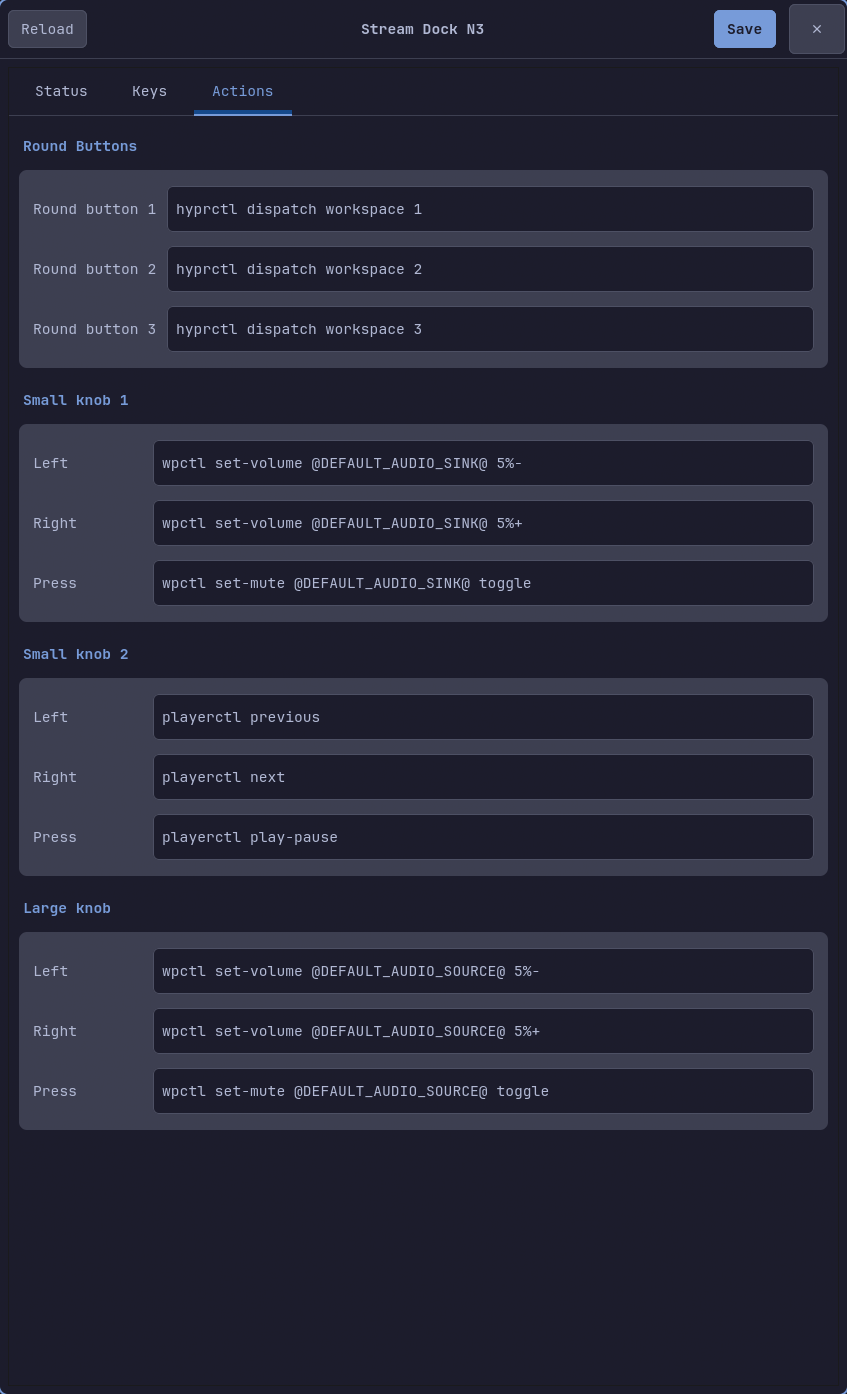
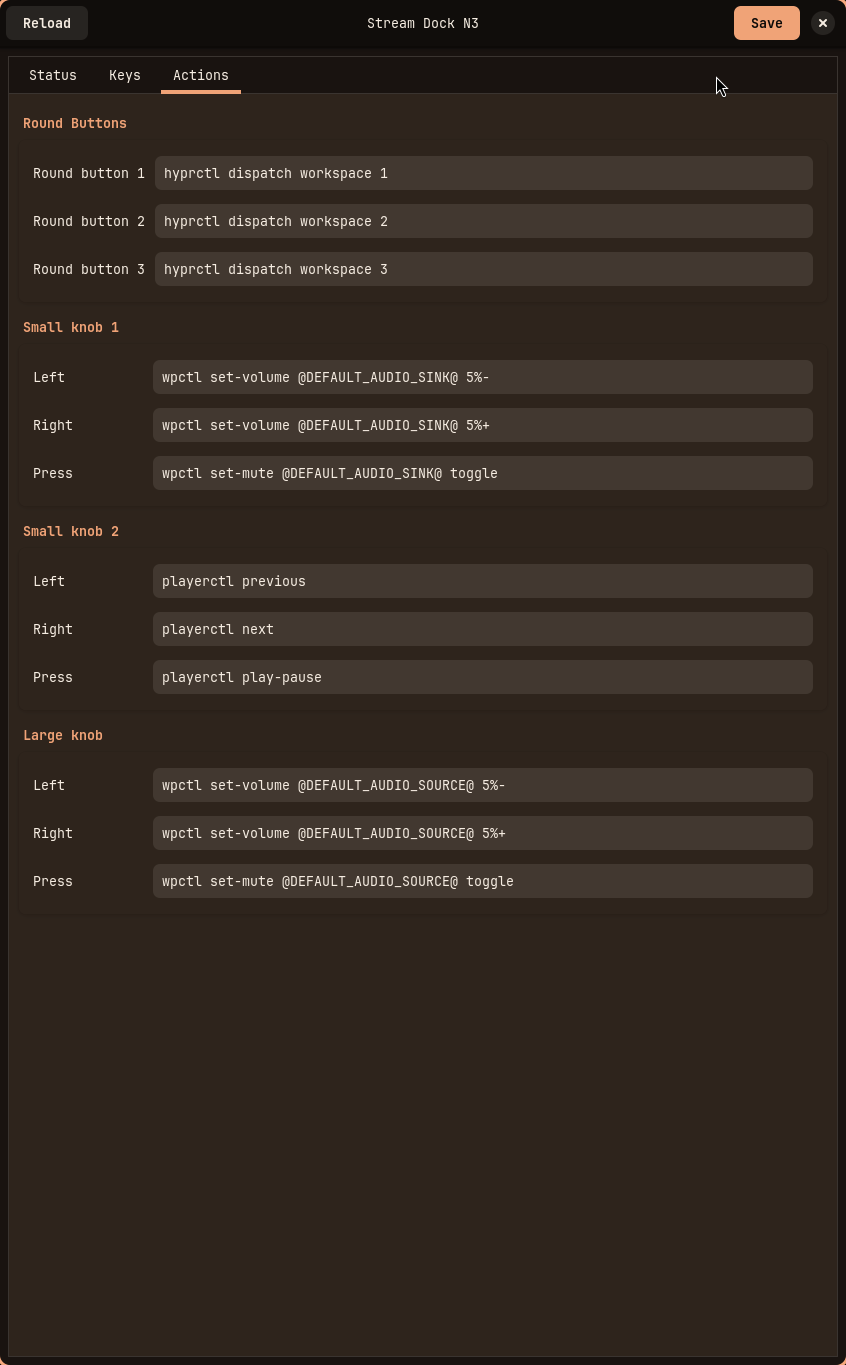
Recapture the screenshots under a themed desktop
The old ones showed the hardcoded Catppuccin palette the GUI used to
paint, which now misrepresents it: the point of 0.4.0 is that it adopts
whatever the desktop provides. These were taken on a desktop whose GTK
theme publishes its own named colours, so they show the app inheriting an
accent, card and surface palette it knows nothing about.

Same window-only framing as before, at the compositor's tile size
(846x1365 rather than 847x1394; not worth resizing for one pixel).

Capturing these is fiddlier than it looks, so for whoever does it next:
GTK's single-instance handling hands a second launch off to a running GUI
and silently ignores --tab, so each capture overrides APP_ID; this
session composites a software cursor, which grim captures even without
-c, so the pointer is parked in the empty strip right of the tab labels
and restored afterwards; and input:follow_mouse=1 means parking it
outside the window would defocus it and capture the dimmer backdrop
state.

diff --git a/CHANGELOG.md b/CHANGELOG.md
@@ -48,8 +48,8 @@
 - Verified on this machine and in simulated end-user configurations: with and
   without libadwaita, with and without a user `gtk.css`, with and without a
   portal, and in each of the four theme modes.
-- `docs/screenshot-*.png` still show the old fixed palette and are now
-  unrepresentative.
+- `docs/screenshot-*.png` were recaptured under a themed desktop, so they now
+  show the app inheriting the system palette rather than a fixed one.
 
 ## 0.3.2 — 2026-08-22
 
